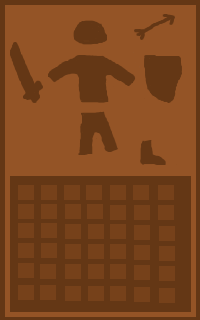
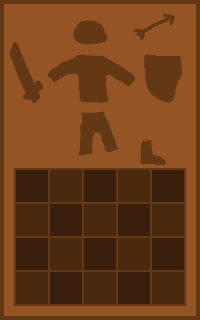
Work on the inventory

diff --git a/src/Inventory.cpp b/src/Inventory.cpp
@@ -27,182 +27,134 @@ using namespace EntitySystem;
 Inventory::Inventory(int x, int y) {
     inventoryRect.x = x;
     inventoryRect.y = y;
-
 }
-
 
 Inventory::~Inventory() {}
 
 void Inventory::init() {
     frame.loadFromFile("data/inventory.png");
-    inventoryLocation = "data/savedata/"+
-            game::getPlayerController()->getName()+
-            "_inventory.lua";
 
-    text.loadFromText("Inventory" ,
-                      *game::getTextColor(),game::getFont());
+    inventoryLocation = "data/savedata/" +
+        game::getPlayerController()->getName() + "_inventory.lua";
+
+    text.loadFromText("Inventory", *game::getTextColor(), game::getFont());
+
     l_interface.initLua();
 
-    if(!l_interface.loadFile(inventoryLocation.c_str()))
+    if(!l_interface.loadFile(inventoryLocation.c_str())) {
         HelperFunctions::log(HelperFunctions::ERROR,
                              "Failed to Load LoadInventory.lua");
+    }
 
-    if(!l_interface.loadFile("src/InventoryFunctions.lua"))
+    if(!l_interface.loadFile("src/InventoryFunctions.lua")) {
         HelperFunctions::log(HelperFunctions::ERROR,
                              "Failed to Load InventoryFunctions.lua");
+    }
 }
 
 void Inventory::loadInventory() {
     l_interface.loadFile(inventoryLocation.c_str());
-    //l_interface.addItem("data/inventory1",12,4,4,6); // TODO save
-
-    return;
 }
 
 void Inventory::addItem(int id, int amount) {
     ItemData data = game::getItemManager()->getItem(id);
-    for(int i = 0;i< 12;i++) {
+
+    for(int i=0;i<12;i++) {
         if(items.find(i) != items.end()) {
             if(items.at(i).id >= 200 && items.at(i).id == id) {
                 int amt = 1;
                 if(stackedItems.find(i) != stackedItems.end()) {
                     amt = stackedItems.at(i);
                     stackedItems.erase(i);
-                } else
-                    items.emplace(std::pair<int, ItemData>(i,data));
-                stackedItems.emplace(std::pair<int, int>(i,amt+1));
+                } else {
+                    items.emplace(std::pair<int,ItemData>(i, data));
+                }
+
+                /* Increase the stack by 1. */
+                stackedItems.emplace(std::pair<int,int>(i, amt+1));
                 return;
             }
         }
     }
-    for(int i = 0;i< 12;i++) {
+
+    for(int i=0;i<12;i++) {
         if (items.find(i) == items.end()) {
-            items.emplace(std::pair<int, ItemData>(i,data));
+            items.emplace(std::pair<int,ItemData>(i, data));
             return;
         }
     }
-
-
 }
 
-int Inventory::addItem(int id,int amount,int x, int y) {
-    if(itemCount < 20) {//lua_functions::getItemCount() < 20)
-        ItemData data = game::getItemManager()->getItem(id);
-        if(items.find(x+(y*3)) != items.end()) {
-            if(items.at(x+(y*3)).id >= 200 && items.at(x+(y*3)).id ==id) {
-                int amt = 1;
-                if(stackedItems.find(x+(y*3)) != stackedItems.end()) {
-                    amt = stackedItems.at(x+(y*3));
-                    stackedItems.erase(x + (y * 3));
-                } else
-                    items.emplace(std::pair<int, ItemData>(x+(y*3), data));
-                stackedItems.emplace(std::pair<int,int>(x+(y*3),amt+1));
-            }
-        } else {
-            items.emplace(std::pair<int, ItemData>(x + (y * 3), data));
-        }
-    } else
+int Inventory::addItem(int id, int amount, int x, int y) {
+    /* We can only carry less than 20 items. */
+    if(itemCount >= 20) {
         return -1;
+    }
+
+    ItemData data = game::getItemManager()->getItem(id);
+
+    if(items.find(x+(y*3)) != items.end()) {
+        if(items.at(x+(y*3)).id >= 200 && items.at(x+(y*3)).id ==id) {
+            int amt = 1;
+
+            if(stackedItems.find(x+(y*3)) != stackedItems.end()) {
+                amt = stackedItems.at(x+(y*3));
+                stackedItems.erase(x+(y*3));
+            } else {
+                items.emplace(std::pair<int,ItemData>(x+(y*3), data));
+            }
+
+            /* Increase the stack by 1. */
+            stackedItems.emplace(std::pair<int,int>(x+(y*3), amt+1));
+        }
+    } else {
+        items.emplace(std::pair<int,ItemData>(x+(y*3), data));
+    }
+    
     return 0;
 }
 
 void Inventory::deleteItem(int id,int amount,int x,int y) {
-
-    l_interface.deleteItem(inventoryLocation.c_str(),id,amount,x,y);
+    l_interface.deleteItem(inventoryLocation.c_str(), id,amount,x,y);
     items.erase(y*6+x);
 }
 
+/*
+ * Draws the frame, text, and all the items.
+ */
 void Inventory::draw() {
-    //frame.render(game::getRenderer(),(SDL_Rect*)NULL);
-    //SDL_RenderCopy(game::getRenderer(),inv_bg,nullptr,&inventoryRect);
-    frame.render(inventoryRect.x,inventoryRect.y,nullptr);
-    text.render(inventoryRect.x+20,inventoryRect.y+20,nullptr);
-
-
+    frame.render(inventoryRect.x, inventoryRect.y, nullptr);
+    text.render(inventoryRect.x+20, inventoryRect.y+20, nullptr);
     renderItems();
 }
 
 void Inventory::renderItems() {
-    SDL_Rect srcRect{0,0,32,32};
+    SDL_Rect srcRect{0, 0, 32, 32};
+
     for(auto item : items) {
-        SDL_Rect itemRect{20+inventoryRect.x+((item.first%3)*32)+(item.first%3)*3,
-                          inventoryRect.y+183+(((item.first-item.first%3)/3)*32)+
-                                  ((item.first-item.first%3)/3)*5, 32,32};
+        SDL_Rect itemRect{16+inventoryRect.x+((item.first%3)*32)+(item.first%3)*2,
+                          170+inventoryRect.y+(((item.first-item.first%3)/3)*32)+
+                                  ((item.first-item.first%3)/3)*2,
+                          32, 32};
+
         SDL_RenderCopy(game::getRenderer(),
                        game::getTextureManager()->getTexture(item.second.img),
-                       &srcRect,&itemRect);
+                       &srcRect, &itemRect);
+
         if(stackedItems.find(item.first) != stackedItems.end()) {
             std::stringstream amt;
             amt.str("");
             amt << stackedItems.at(item.first);
-            amount.loadFromText(amt.str(),*game::getTextColor(),game::getDmgFont());
+            amount.loadFromText(amt.str(), *game::getTextColor(),
+                                game::getDmgFont());
             amount.render(itemRect.x,itemRect.y,nullptr);
             // TODO Print amt of items
         }
     }
 }
 
+/*
+ * Check if items are dropped or if new items are picked up.
+ */
 void Inventory::update() {
-    //check if item is dropped or if new items arrive
 }
-
-/*void Inventory::buildInventory() {
-    SDL_Rect clip;
-    clip.x = 0;
-    clip.y = 0;
-    clip.w = 32;
-    clip.h = 32;
-
-    SDL_SetRenderTarget(game::getRenderer(),inv_bg);
-    frame.render(0,0,&clip);
-    clip.x = 64;
-    frame.render(inventoryRect.w-32,0,&clip);
-    for(int j = 1;j<((inventoryRect.w-32) / 32);j++) {
-        clip.x = 32;
-        clip.y = 0;
-        frame.render(j*32,0,&clip);
-    }
-
-    for(int i = 1;i<=(inventoryRect.h / 32);i++) {
-        for(int j = 0;j<=((inventoryRect.w-32) / 32);j++) {
-            if(i == 1 && j == 0) {
-                clip.x = 0;
-                clip.y = 0;
-            } else if(i == ((inventoryRect.h-32)/32) && j == 0) {
-                clip.x = 0;
-                clip.y = 32;
-            } else if(i == 1 && j == ((inventoryRect.w-32)/32)) {
-                clip.x = 64;
-                clip.y = 0;
-            } else if(i == ((inventoryRect.h-32)/32) &&
-                        j == ((inventoryRect.w-32)/32)) {
-                clip.x = 64;
-                clip.y = 32;
-            } else if(i == 1) {
-                clip.x = 32;
-                clip.y = 0;
-            } else if(i == ((inventoryRect.h-32)/32)) {
-                clip.x = 32;
-                clip.y = 32;
-            } else if(j == 0) {
-                clip.x = 0;
-                clip.y = 10;
-            } else if(j == ((inventoryRect.w-32)/32)) {
-                clip.x = 64;
-                clip.y = 10;
-            } else {
-                clip.x = 32;
-                clip.y = 10;
-            }
-            frame.render(j*32,i*32,&clip);
-        }
-    }
-
-    text.loadFromText("Inventory" ,
-                        *game::getTextColor(),game::getFont());
-    text.render(10,4,nullptr);
-    SDL_SetRenderTarget(game::getRenderer(),nullptr);
-}
-
-
-*/

diff --git a/src/Inventory.hpp b/src/Inventory.hpp
@@ -16,8 +16,8 @@
  * along with Hunta2.  If not, see <http://www.gnu.org/licenses/>.
  */
 
-#ifndef INVENTORY_H
-#define INVENTORY_H
+#ifndef INVENTORY_HPP
+#define INVENTORY_HPP
 
 #include "Texture.hpp"
 #include "EntitySystem.hpp"
@@ -29,22 +29,23 @@ using namespace EntitySystem;
 /*
  * Inventory. Load items from file. Save items to file.
  */
-struct Inventory : Component {
+class Inventory : Component {
 public:
     Inventory(int x, int y);
+    ~Inventory();
+
     void init();
     void update();
     void draw();
     void loadInventory();
 
-    int addItem(int id,int amount,int x, int y);
-    void addItem(int id,int amount);
-    void deleteItem(int id,int amount,int x, int y);
+    int addItem(int id, int amount, int x, int y);
+    void addItem(int id, int amount);
+    void deleteItem(int id, int amount, int x, int y);
 
     void saveInventory();
     void renderItems();
-    //void buildInventory();
-    ~Inventory();
+
 private:
     LuaInterface l_interface;
     SDL_Texture *inv_bg{nullptr};
@@ -56,8 +57,8 @@ private:
     SDL_Rect inventoryRect;
     Texture amount;
     std::string inventoryLocation;
-    std::map<int, ItemData> items;
-    std::map<int, int> stackedItems;
+    std::map<int,ItemData> items;
+    std::map<int,int> stackedItems;
 };
 
-#endif // INVENTORY_H
+#endif /* INVENTORY_HPP */

diff --git a/src/Game.cpp b/src/Game.cpp
@@ -53,7 +53,7 @@ namespace game {
     ItemManager itemManager;
     UIController uiController;
     CharacterCreationScreen creationScreen;
-    Inventory inventory(400,160);
+    Inventory inventory(580, 260);
     std::shared_ptr<Map> textureMap;
     int width = 800;
     int t_width = width/32;
